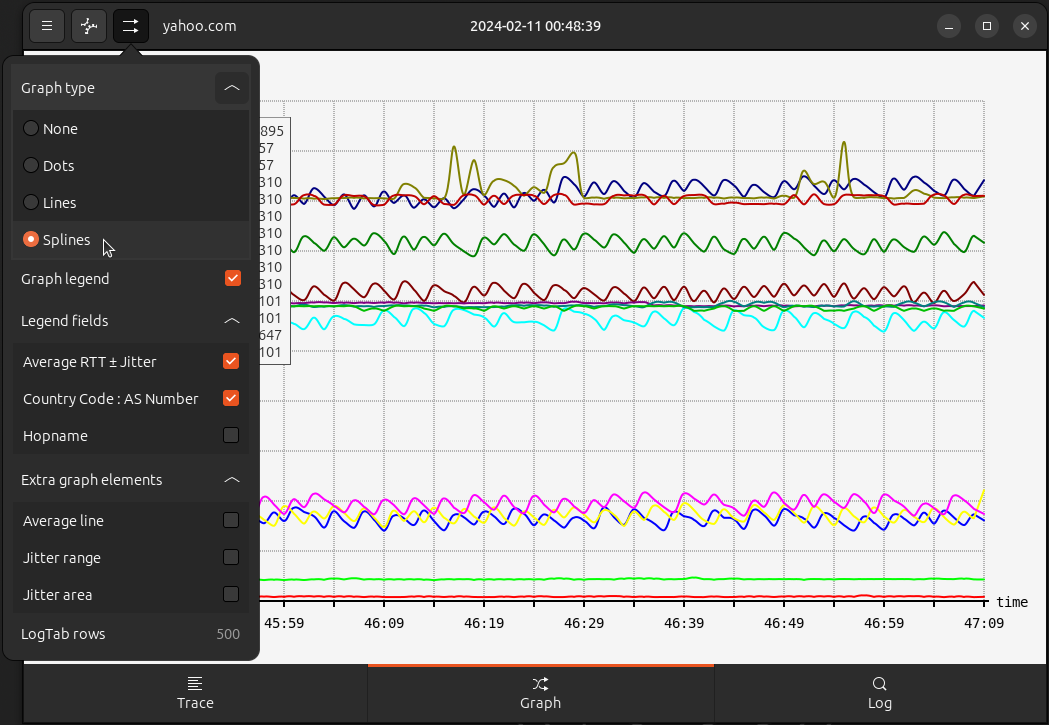
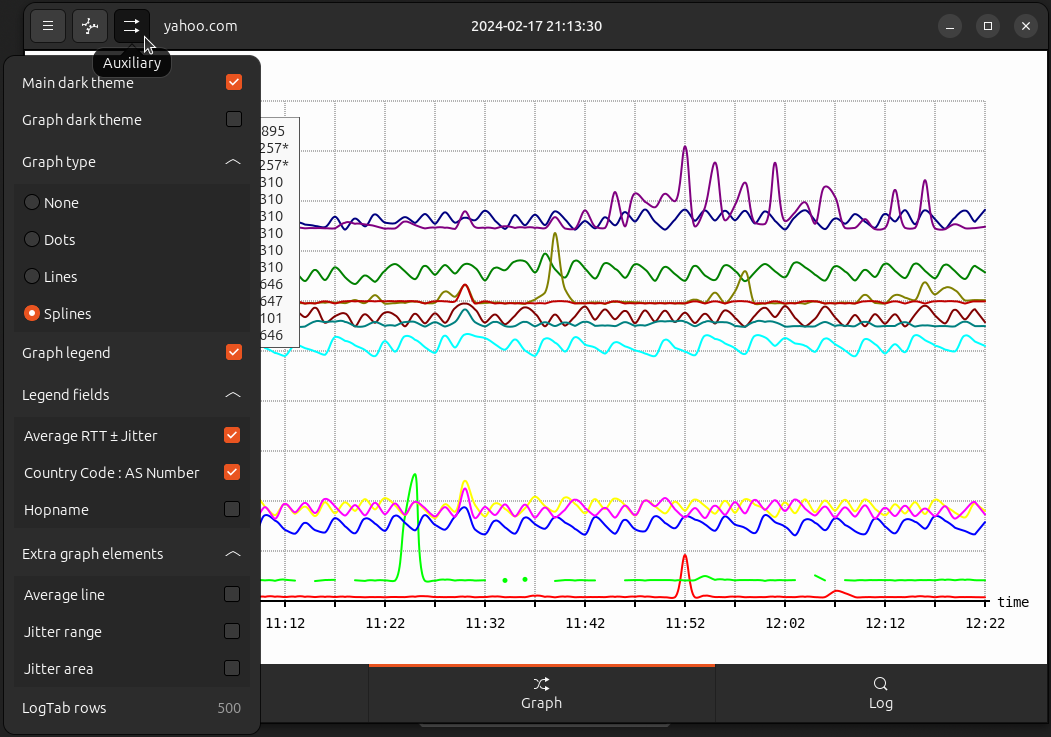
add CLI dark/light themes option
update screenshots

diff --git a/cli.c b/cli.c
@@ -166,6 +166,17 @@ static gboolean cli_opt_S(const char *name, const char *value, gpointer unused, 
   return cli_opt_elem(name, value, error, OPT_TYPE_STAT);
 }
 
+static gboolean cli_opt_T(const char *name, const char *value, t_opts *opts, GError **error) {
+  if (!opts) return false;
+  int mask = opts->darkgraph | (opts->darkgraph << 1);
+  gboolean re = cli_int_opt(name, value, error, ENT_STR_THEME, "Theme dark/light bits", 0, 3, &mask);
+  if (re) {
+    opts->darktheme = (mask & 0x1) ? true : false;
+    opts->darkgraph = (mask & 0x2) ? true : false;
+  }
+  return re;
+}
+
 static gboolean cli_opt_r(const char *name, const char *value, gpointer unused, GError **error) {
   return cli_opt_elem(name, value, error, OPT_TYPE_RECAP);
 }
@@ -211,6 +222,8 @@ gboolean cli_init(int *pargc, char ***pargv) {
       .arg_description = "[" INFO_PATT "]",  .description = OPT_INFO_HEADER " to display" },
     { .long_name = "stat",     .short_name = 'S', .arg = G_OPTION_ARG_CALLBACK, .arg_data = cli_opt_S,
       .arg_description = "[" STAT_PATT "]",  .description = OPT_STAT_HDR " to display" },
+    { .long_name = "theme",    .short_name = 'T', .arg = G_OPTION_ARG_CALLBACK, .arg_data = cli_opt_T,
+      .arg_description = "<bits>",           .description = "Toggle dark/light themes" },
     { .long_name = "graph",    .short_name = 'g', .arg = G_OPTION_ARG_CALLBACK, .arg_data = cli_opt_g,
       .arg_description = "<type>",           .description = OPT_GRAPH_HDR " to draw" },
     { .long_name = "gextra",   .short_name = 'G', .arg = G_OPTION_ARG_CALLBACK, .arg_data = cli_opt_G,
@@ -237,7 +250,9 @@ gboolean cli_init(int *pargc, char ***pargv) {
   g_option_context_set_main_group(oc, og);
   { GError *error = NULL;
     cli = true; gboolean okay = g_option_context_parse(oc, pargc, pargv, &error); cli = false;
-    if (!okay) CLI_FAIL("%s", error->message);
+    if (!okay) {
+      g_message("%s", error ? error->message : unkn_error); g_error_free(error);
+      g_option_context_free(oc); return false; }
     if (version) { g_print("%s", appver); char *ver;
       if ((ver = rtver(GTK_STRV)))   { g_print(" +gtk-%s", ver);   g_free(ver); }
       if ((ver = rtver(CAIRO_STRV))) { g_print(" +cairo-%s", ver); g_free(ver); }

diff --git a/parser.c b/parser.c
@@ -230,7 +230,9 @@ static gchar* parser_valid_int(const gchar *option, const gchar *str) {
   if (!cpy) return NULL;
   gchar *val = g_strstrip(cpy);
   gboolean valid = g_regex_match(str_rx[OPT_TYPE_INT].regex, val, 0, NULL);
-  if (!valid) { PARSER_MESG("%s: no match %s regex", option, str_rx[OPT_TYPE_INT].pattern); g_free(cpy); val = NULL; }
+  if (valid) { val = (val && val[0]) ? g_strdup(val) : NULL; }
+  else { PARSER_MESG("%s: no match %s regex", option, str_rx[OPT_TYPE_INT].pattern); val = NULL; }
+  g_free(cpy);
   return val;
 }
 
@@ -279,6 +281,7 @@ int parser_int(const gchar *str, int typ, const gchar *option, t_minmax mm) {
     case ENT_STR_GRAPH:
     case ENT_STR_GEXTRA:
     case ENT_STR_LEGEND:
+    case ENT_STR_THEME:
       return n;
   }
   return -1;
@@ -348,12 +351,12 @@ t_minmax parser_range(gchar *range, const gchar *option) {
     if (min && min[0]) {
       min = parser_valid_int(option, min);
       if (min && min[0]) min_val = atoi(min);
-      else return re;
+      g_free(min); if (min_val < 0) return re;
     }
     if (max && max[0]) {
       max = parser_valid_int(option, max);
       if (max && max[0]) max_val = atoi(max);
-      else return re;
+      g_free(max); if (max_val < 0) return re;
     }
     re.min = min_val; re.max = max_val;
   }

diff --git a/parser.h b/parser.h
@@ -4,7 +4,7 @@
 #include "common.h"
 
 enum { ENT_STR_NONE, ENT_STR_CYCLES, ENT_STR_IVAL, ENT_STR_QOS, ENT_STR_PLOAD, ENT_STR_PSIZE,
-  ENT_STR_LOGMAX, ENT_STR_GRAPH, ENT_STR_GEXTRA, ENT_STR_LEGEND, ENT_STR_MAX };
+  ENT_STR_LOGMAX, ENT_STR_GRAPH, ENT_STR_GEXTRA, ENT_STR_LEGEND, ENT_STR_THEME, ENT_STR_MAX };
 enum { OPT_TYPE_INT, OPT_TYPE_PAD, OPT_TYPE_INFO, OPT_TYPE_STAT, OPT_TYPE_RECAP, OPT_TYPE_MAX };
 
 gboolean parser_init(void);

diff --git a/common.h b/common.h
@@ -9,7 +9,7 @@
 #endif
 
 #define APPNAME "pingpath"
-#define VERSION "0.1.78"
+#define VERSION "0.1.79"
 
 #define X_RES 1024
 #define Y_RES 720

diff --git a/README.md b/README.md
@@ -6,7 +6,7 @@ PingPath
 SYNOPSIS
 --------
 
-**pingpath \[-chiIgGLnpqrRsStv46\] [TARGET]**
+**pingpath \[-chiIgGLnpqrRsStTv46\] [TARGET]**
 
 DESCRIPTION
 -----------
@@ -40,6 +40,9 @@ SCREENSHOTS
 
 ## with auxiliary menu and Graph tab on background
 ![pp-screenshot05](https://raw.githubusercontent.com/yvs2014/pingpath/main/img/pp-screenshot05.png)
+
+## dark/light theme switches in aux menu
+![pp-screenshot09](https://raw.githubusercontent.com/yvs2014/pingpath/main/img/pp-screenshot09.png)
 
 ## graphs with legend
 ![pp-screenshot06](https://raw.githubusercontent.com/yvs2014/pingpath/main/img/pp-screenshot06.png)

diff --git a/CHANGELOG.md b/CHANGELOG.md
@@ -1,3 +1,7 @@
+## 0.1.79
+- add CLI dark/light themes option
+- update screenshots
+
 ## 0.1.78
 - add dark/light theme switch (main and graph)
 
